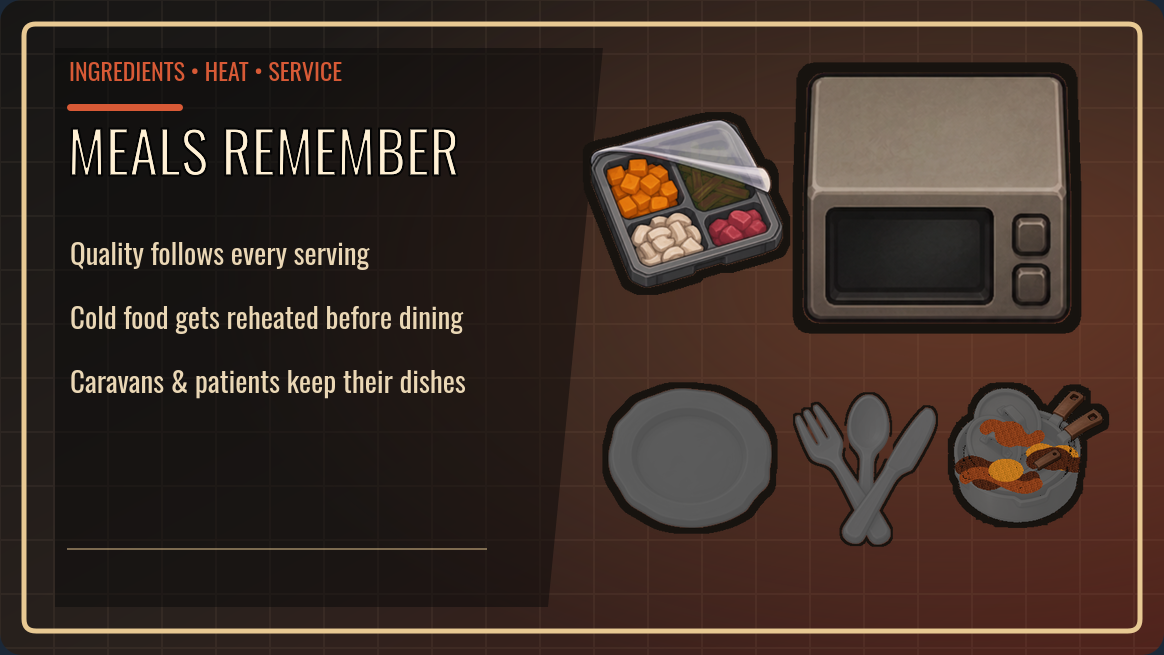
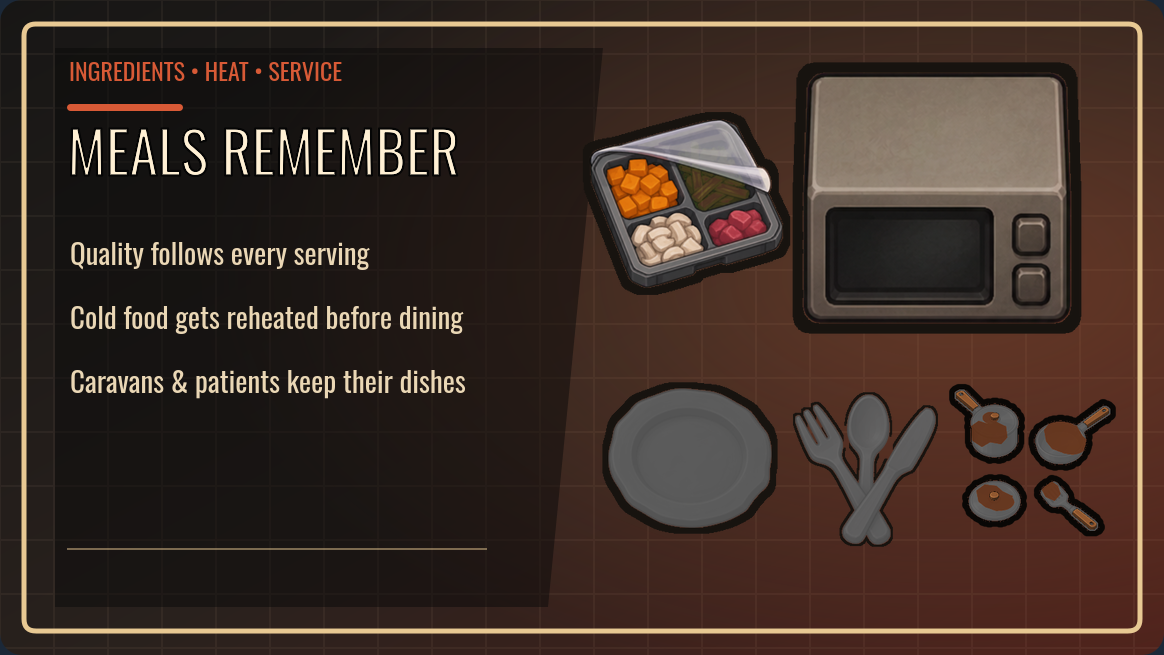
chore(immersive-chefs): refresh cookware workshop cards (out-of-band)

Changed region(s): [[0.8041, 0.5802, 0.9588, 0.8244]]

diff --git a/tests/ImmersiveChefs.Tests/ImmersiveChefsReleaseCandidateTests.cs b/tests/ImmersiveChefs.Tests/ImmersiveChefsReleaseCandidateTests.cs
@@ -43,8 +43,8 @@ public sealed class ImmersiveChefsReleaseCandidateTests
             Assert.That(release["previousChangeNote"], Is.EqualTo("Fixed Cook for Yourself cooking loops when Pick Up And Haul and Stack Gap are active. One-off self and patient meals now place their ingredients before collecting kitchenware and complete normally. Active cookware also renders behind or in front of the cook according to work direction instead of covering the pawn."));
             Assert.That(
                 release["changeNote"],
-                Is.EqualTo(string.Empty),
-                "A successful Workshop update must clear its pending note while retaining the verified remote note as previousChangeNote.");
+                Is.EqualTo("Redrew modern cookware so it stays readable on dark stoves and at normal map zoom. Steel sets now use clearly separated pot, pan, lid, and utensil silhouettes with a stronger smooth outline and cleaner Stuff masking."),
+                "The committed release candidate must carry the exact reviewed pending Workshop note.");
             Assert.That(
                 ((IEnumerable)release["requiredWorkshopItems"]).Cast<object>().Single(),
                 Is.EqualTo("2009463077"));
